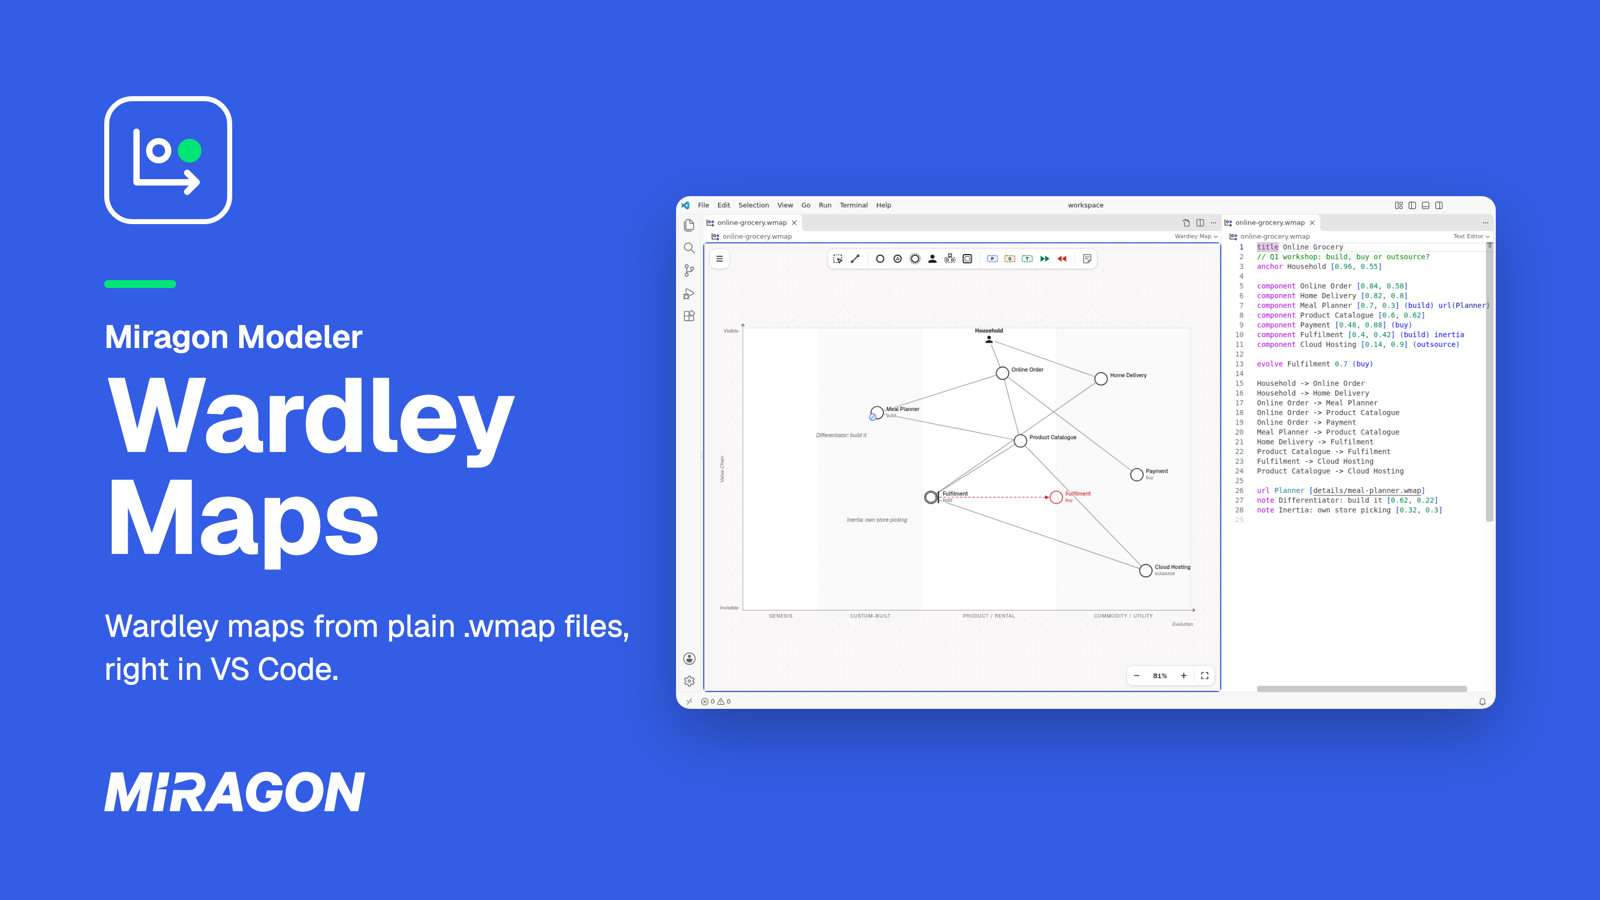
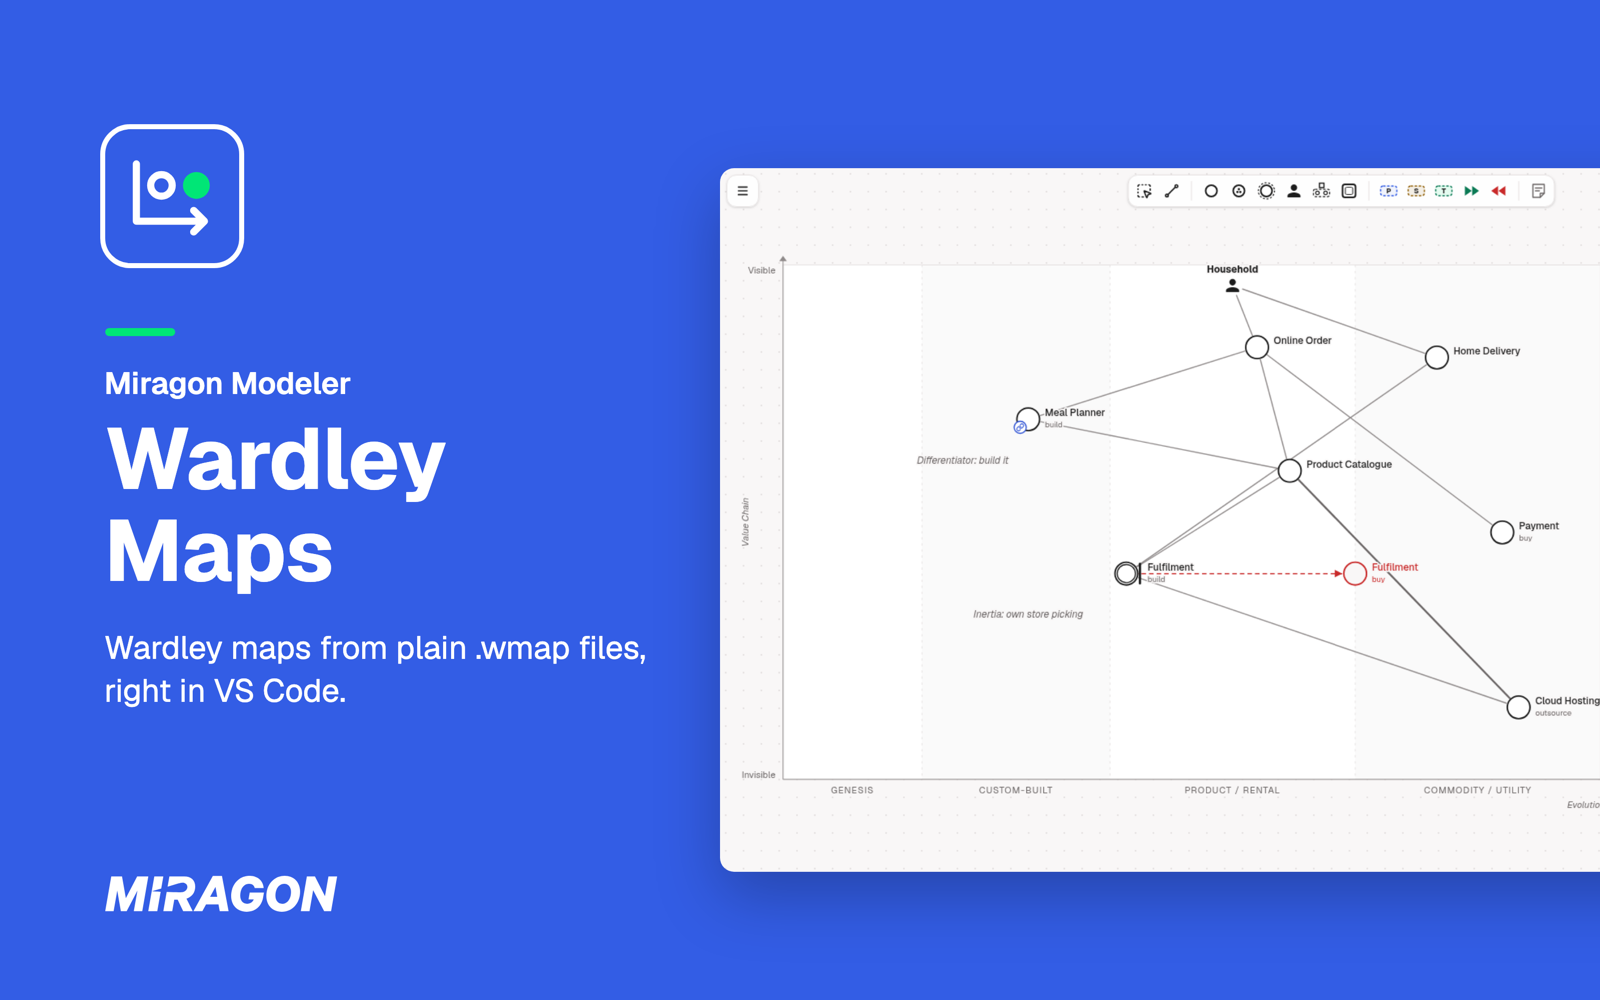
docs(wardley-maps): frame the README screenshots as macOS windows and match the Orca cover
Every gallery image is the whole VS Code window in a macOS frame (1700x1100, transparent shadow), the drag is an animated PNG instead of a GIF so its shadow stays transparent, and the cover takes the layout of the Orca plugin's cover (1600x1000, the editor as a card running off the right edge).

diff --git a/modelers/wardley-maps/apps/vscode/README.md b/modelers/wardley-maps/apps/vscode/README.md
@@ -36,7 +36,7 @@ and reports. The `.wmap` file stays the source you edit.
 
 ## Text and diagram side by side
 
-![Dragging Product Catalogue to the right on the canvas changes its line in the text beside it](/modelers/wardley-maps/docs/screenshots/vscode/side-by-side.gif)
+![Dragging Product Catalogue to the right on the canvas changes its line in the text beside it](/modelers/wardley-maps/docs/screenshots/vscode/side-by-side.png)
 
 **Wardley: Open Source to the Side** shows the map's text, with syntax highlighting, next to the
 diagram. Type in the text and the diagram follows. Edit the diagram and the text changes, but only
